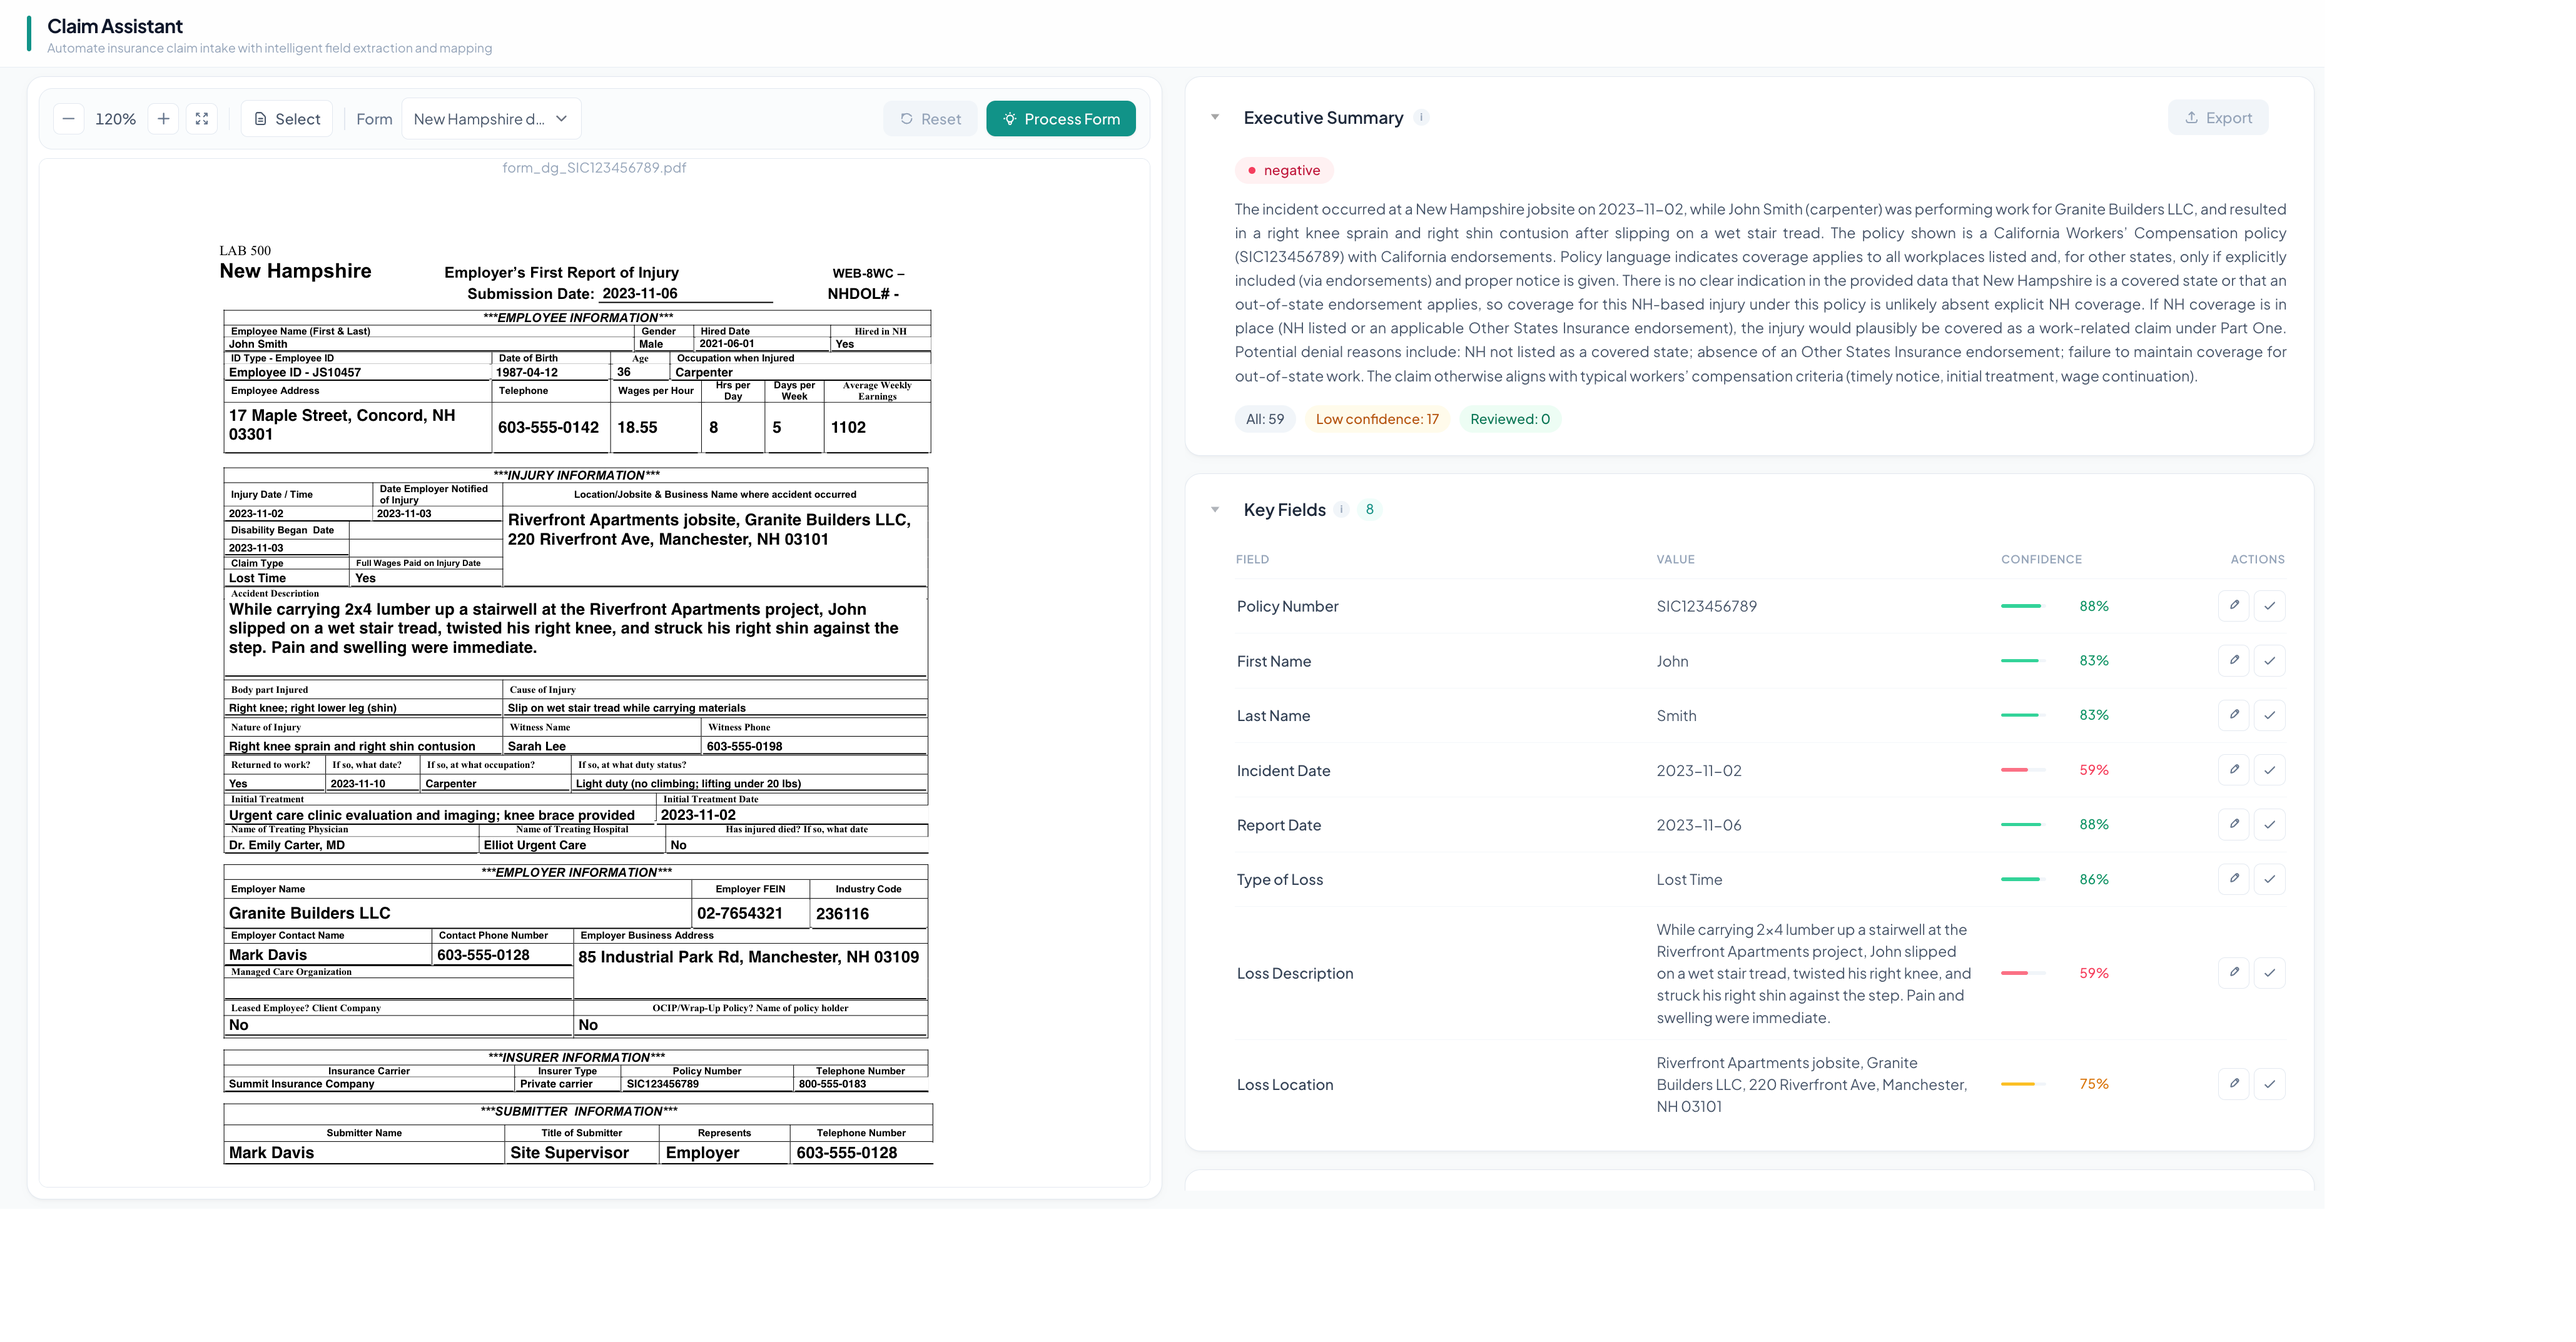
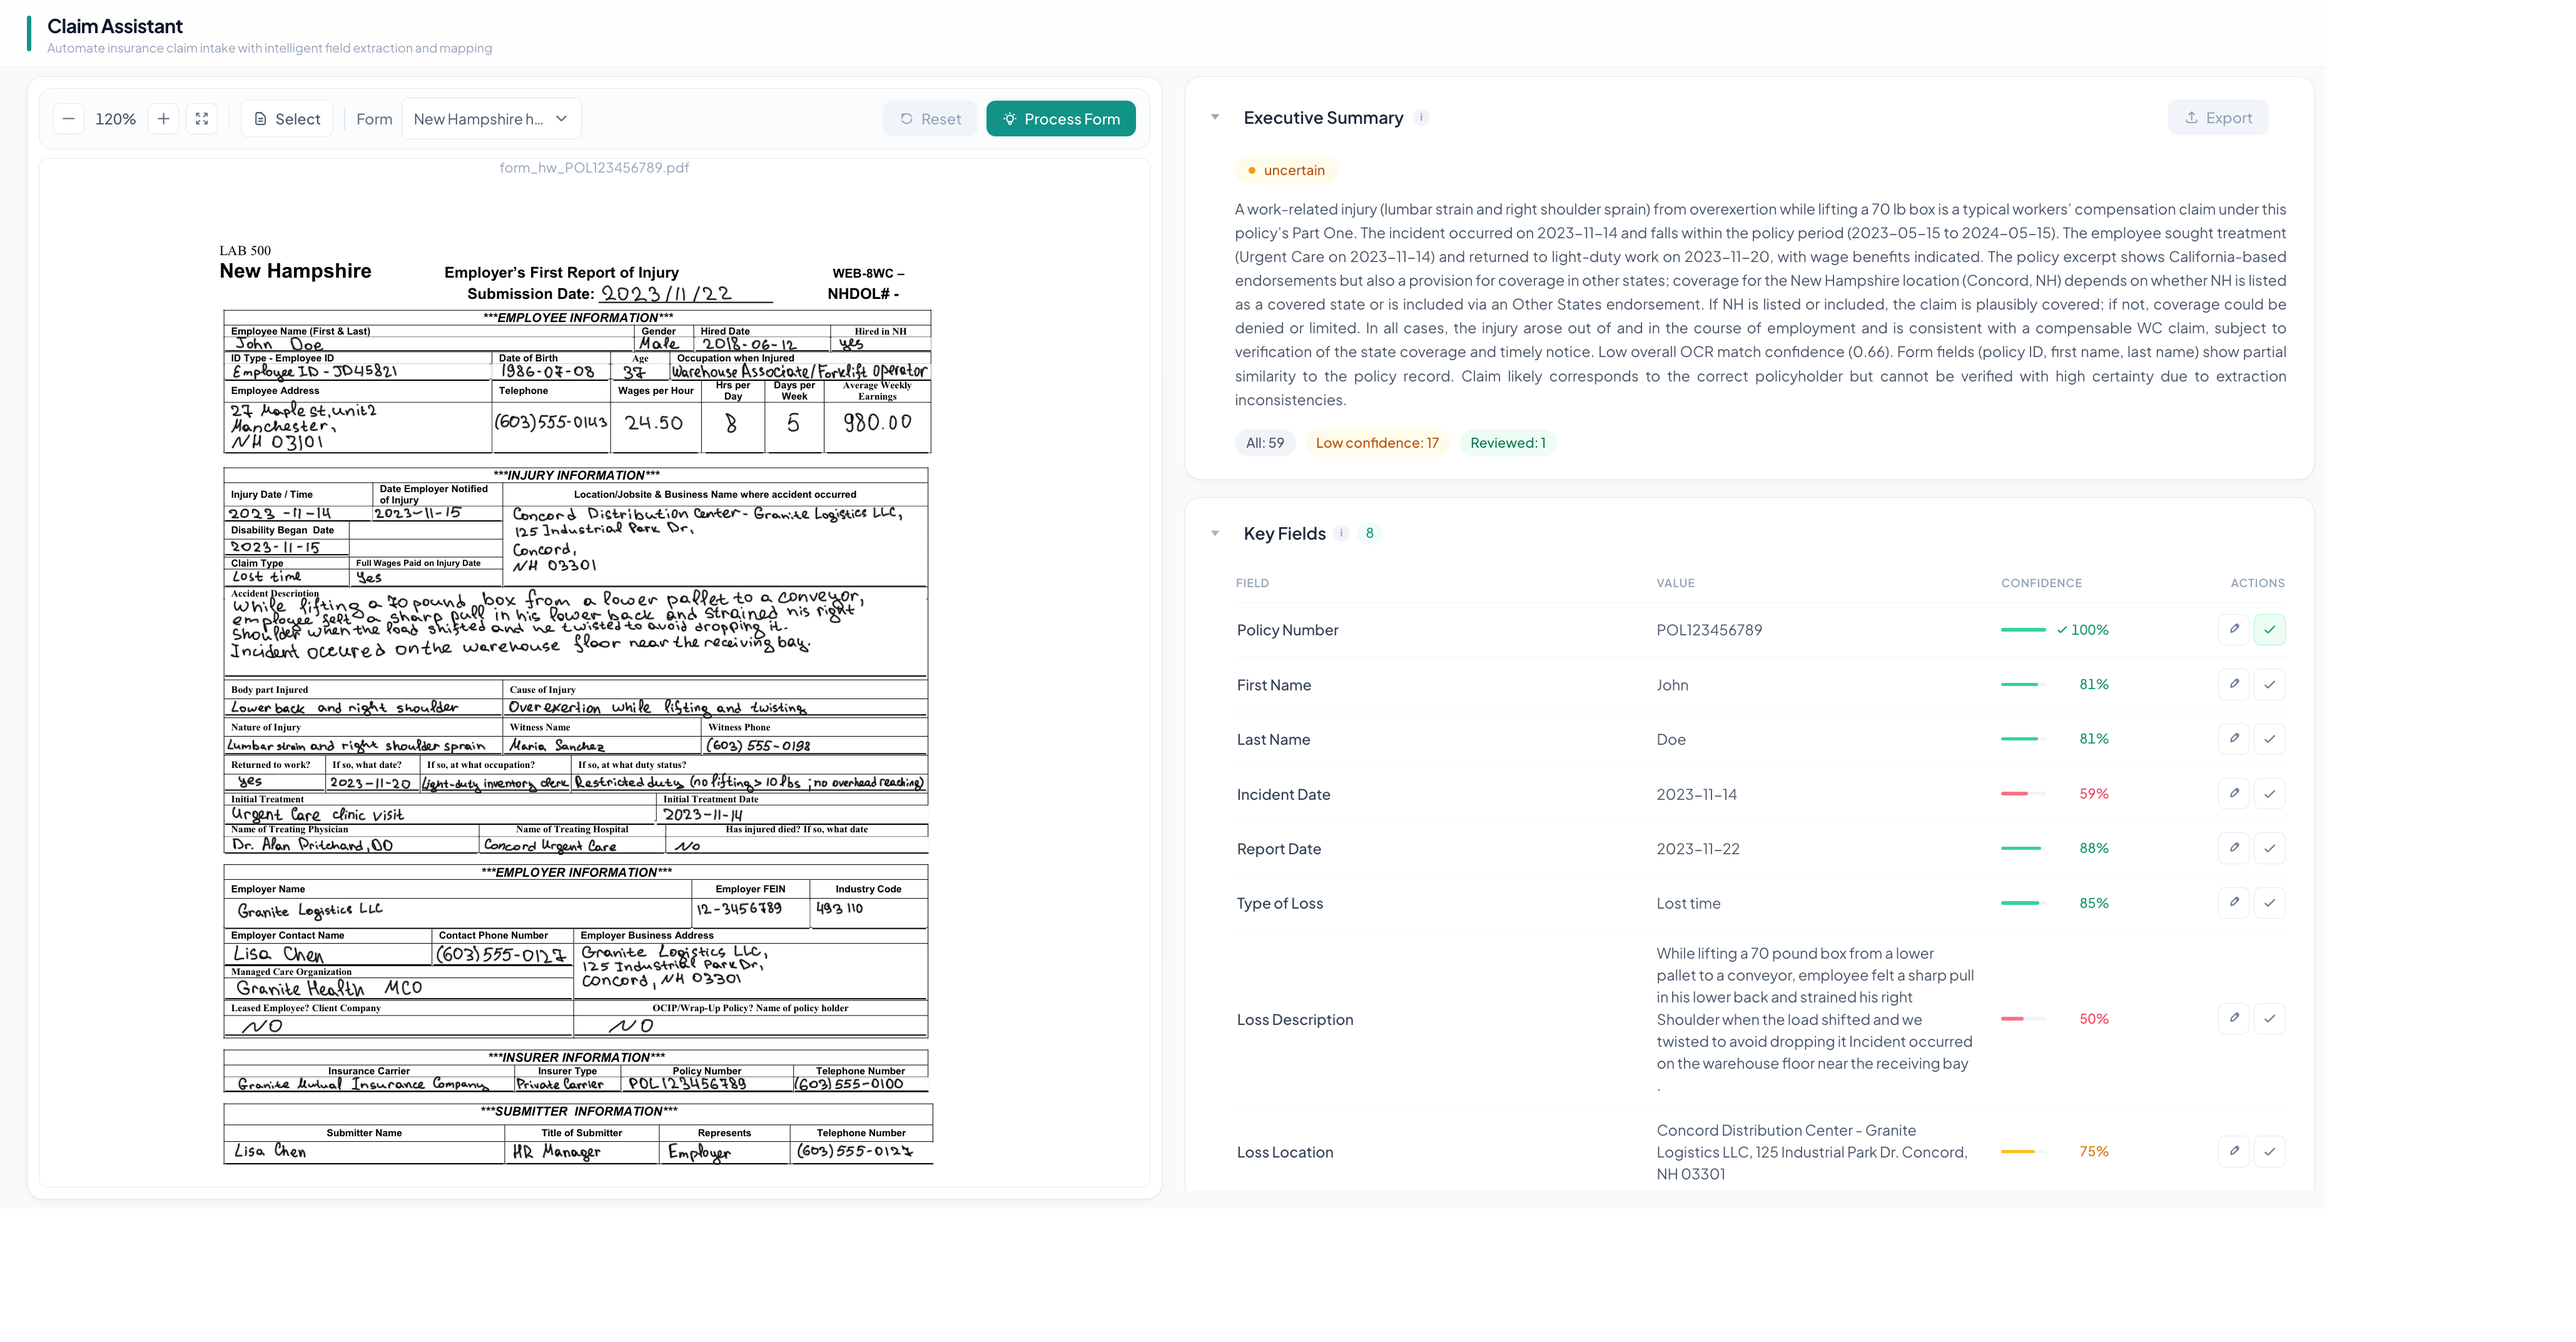
feat: add ScreenshotThumbnail component for improved screenshot display; update project JSON to include an additional screenshot

diff --git a/src/components/project/Screenshots.tsx b/src/components/project/Screenshots.tsx
@@ -128,6 +128,52 @@ function Lightbox({
   );
 }
 
+function ScreenshotThumbnail({
+  src,
+  alt,
+  onClick,
+  featured,
+}: {
+  src: string;
+  alt: string;
+  onClick: () => void;
+  featured: boolean;
+}) {
+  return (
+    <button
+      onClick={onClick}
+      className={`group relative cursor-pointer overflow-hidden rounded-xl border border-border bg-surface transition-all duration-300 hover:border-primary/50 hover:shadow-lg hover:shadow-primary/5${featured ? ' sm:col-span-2' : ''}`}
+    >
+      <img
+        src={src}
+        alt={alt}
+        className="w-full transition-transform duration-500 group-hover:scale-[1.03]"
+      />
+      {/* Hover overlay with expand icon */}
+      <div className="pointer-events-none absolute inset-0 flex items-center justify-center bg-black/0 transition-all duration-300 group-hover:bg-black/20">
+        <div className="rounded-full bg-white/0 p-3 text-white opacity-0 transition-all duration-300 group-hover:bg-white/20 group-hover:opacity-100">
+          <svg
+            xmlns="http://www.w3.org/2000/svg"
+            width="22"
+            height="22"
+            viewBox="0 0 24 24"
+            fill="none"
+            stroke="currentColor"
+            strokeWidth="2"
+            strokeLinecap="round"
+            strokeLinejoin="round"
+          >
+            <polyline points="15 3 21 3 21 9" />
+            <polyline points="9 21 3 21 3 15" />
+            <line x1="21" y1="3" x2="14" y2="10" />
+            <line x1="3" y1="21" x2="10" y2="14" />
+          </svg>
+        </div>
+      </div>
+    </button>
+  );
+}
+
 export function Screenshots({ project }: { project: Project }) {
   const [lightboxIndex, setLightboxIndex] = useState<number | null>(null);
 
@@ -157,38 +203,13 @@ export function Screenshots({ project }: { project: Project }) {
         <h2 className="mb-8 text-2xl font-bold">Screenshots</h2>
         <div className="grid gap-4 sm:grid-cols-2">
           {project.screenshots.map((src, i) => (
-            <button
+            <ScreenshotThumbnail
               key={i}
+              src={src}
+              alt={`${project.name} screenshot ${i + 1}`}
               onClick={() => setLightboxIndex(i)}
-              className="group relative cursor-pointer overflow-hidden rounded-xl border border-border bg-surface transition-all duration-300 hover:border-primary/50 hover:shadow-lg hover:shadow-primary/5"
-            >
-              <img
-                src={src}
-                alt={`${project.name} screenshot ${i + 1}`}
-                className="w-full transition-transform duration-500 group-hover:scale-[1.03]"
-              />
-              {/* Hover overlay with expand icon */}
-              <div className="pointer-events-none absolute inset-0 flex items-center justify-center bg-black/0 transition-all duration-300 group-hover:bg-black/20">
-                <div className="rounded-full bg-white/0 p-3 text-white opacity-0 transition-all duration-300 group-hover:bg-white/20 group-hover:opacity-100">
-                  <svg
-                    xmlns="http://www.w3.org/2000/svg"
-                    width="22"
-                    height="22"
-                    viewBox="0 0 24 24"
-                    fill="none"
-                    stroke="currentColor"
-                    strokeWidth="2"
-                    strokeLinecap="round"
-                    strokeLinejoin="round"
-                  >
-                    <polyline points="15 3 21 3 21 9" />
-                    <polyline points="9 21 3 21 3 15" />
-                    <line x1="21" y1="3" x2="14" y2="10" />
-                    <line x1="3" y1="21" x2="10" y2="14" />
-                  </svg>
-                </div>
-              </div>
-            </button>
+              featured={project.screenshots.length === 3 && i === 0}
+            />
           ))}
         </div>
       </div>
